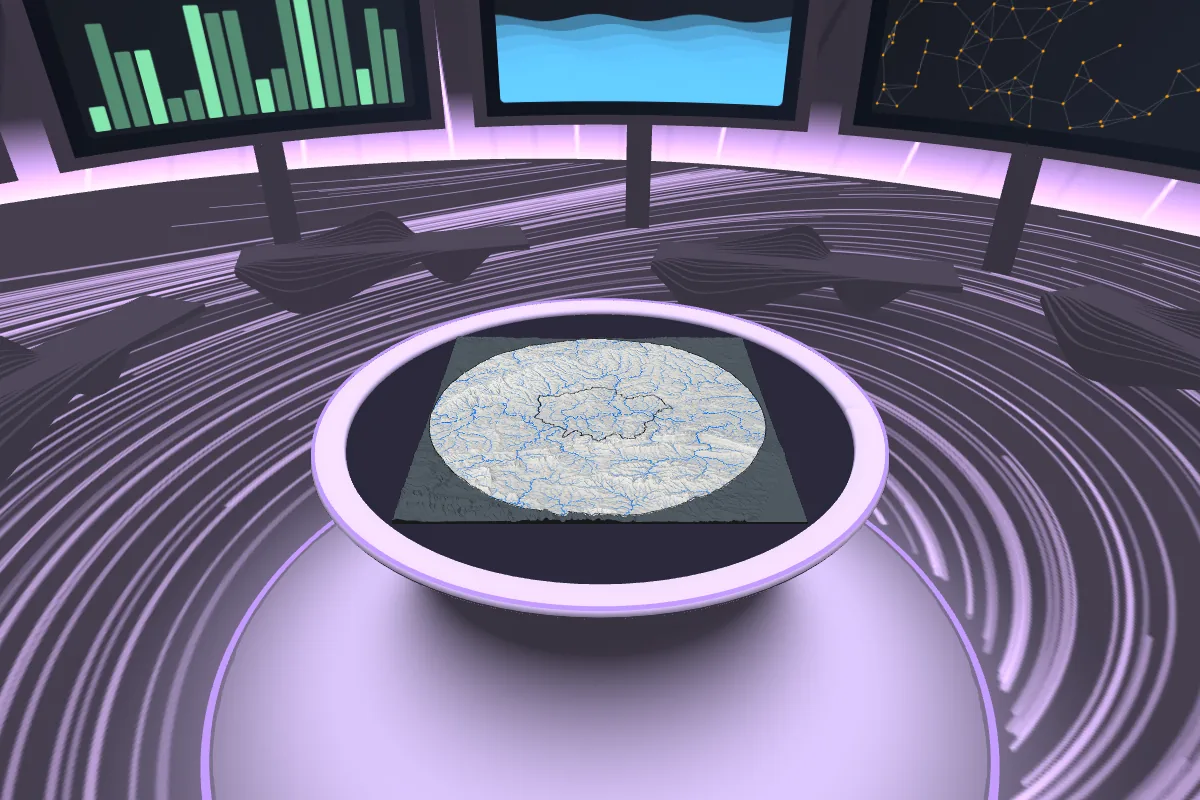
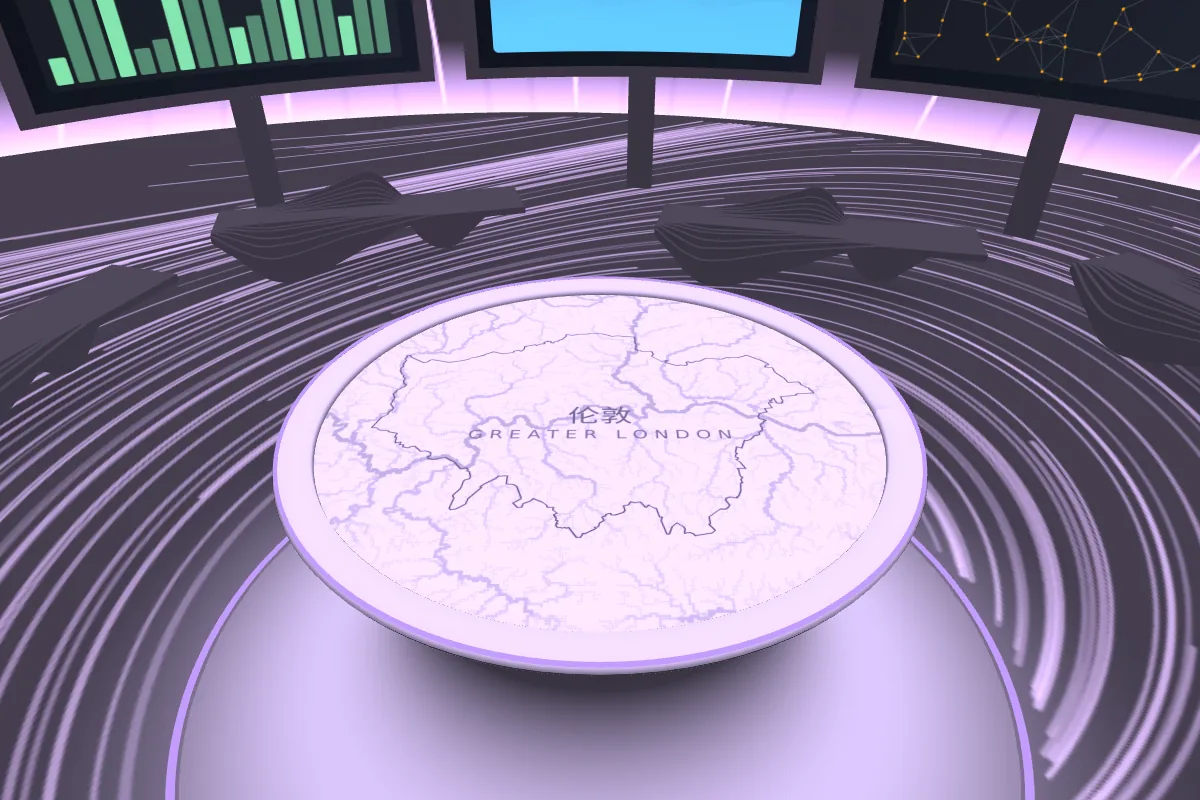
catalogue: the VR card says what it does; its cover shows all of London on the table
The description now lists only what the app does (preview, VR / MR, walk,
slide / turn / zoom the map, switch layers, open screens, walk at 1:1). The
cover's table shows the whole of Greater London in a light map style — the
boundary, the drainage network in grey and the 伦敦 · GREATER LONDON label,
the disc spanning about 72 km — drawn from the Hydro Lab scene data. hall.js
can now take such an image for the table's cap (opt.capImage, unused by the
app itself).

Claude-Session: https://claude.ai/code/session_01PLqW2Wv64EXShMtJ9cMZhs

diff --git a/incubator/vr/src/hall.js b/incubator/vr/src/hall.js
@@ -223,7 +223,11 @@ export function createHall(gl, opt = {}){
 
   // the table: body, a dark cap under the disc, a light ring on the rim and on the floor
   add(lathe(pts, 96, WHITE), {});
-  add(disc(mapR + 0.02, tableH - 0.002, 64, [0.16, 0.17, 0.19]), {});
+  // the cap under the map: dark, or opt.capImage (an image or canvas, north up, the disc's full width) — e.g. a still of the place
+  if (opt.capImage){ const cap = disc(mapR + 0.02, tableH - 0.002, 96, [1, 1, 1]), r = mapR + 0.02;
+    for (let o = 0; o < cap.v.length; o += F){ cap.v[o + 6] = 0.5 + cap.v[o] / (2 * r); cap.v[o + 7] = 0.5 - cap.v[o + 2] / (2 * r); }   // north (−z) at the top
+    add(cap, { map: tex(opt.capImage) }); }
+  else add(disc(mapR + 0.02, tableH - 0.002, 64, [0.16, 0.17, 0.19]), {});
   const ring = (r, y, n) => { const p = []; for (let k = 0; k < n; k++){ const a = k / n * Math.PI * 2; p.push([r * Math.cos(a), y, r * Math.sin(a)]); } return p; };
   glowLines.push(tube(ring(R2 - 0.004, tableH + 0.026, 160), 0.005, 6, true), tube(ring(foot + 0.02, 0.004, 160), 0.012, 4, true));
 

diff --git a/incubator/vr/src/xr_view.js b/incubator/vr/src/xr_view.js
@@ -15,7 +15,7 @@
 
 import { defaultEnv } from './app_state.js?v=0.20';
 import { writeCars } from './features.js?v=0.20';
-import { createHall } from './hall.js?v=0.29';
+import { createHall } from './hall.js?v=0.31';
 
 const T = {
   zh: { title: '三维 · VR / MR', enterAR: '进入 MR', enterVR: '进入 VR', noXR: '这台设备的浏览器不支持 WebXR。请在 Meta Quest 浏览器中打开本页。', close: '关闭', flood: '洪水风险', drain: '汇水网络', outline: '边界', buildings: '建筑', existing: '现有街道', exag: '高程放大', walk: '1:1 漫游',

diff --git a/incubator/vr/map.html b/incubator/vr/map.html
@@ -29,8 +29,8 @@
 <div id="err"></div>
 <script type="module">
 import { findMap } from './src/map_bridge.js?v=0.20';
-import { openFromMap } from './src/from_map.js?v=0.30';
-import { open } from './src/xr_view.js?v=0.30';
+import { openFromMap } from './src/from_map.js?v=0.31';
+import { open } from './src/xr_view.js?v=0.31';
 import { streamApi } from './src/stream.js?v=0.20';
 import { mapPainter } from './src/map_painter.js?v=0.20';
 import { appPanel } from './src/app_panel.js?v=0.24';

diff --git a/incubator/vr/index.html b/incubator/vr/index.html
@@ -12,7 +12,7 @@
 <div id="msg">载入场景… · Loading the scene…</div>
 <div id="drop">松开以载入场景文件 · Drop a scene file</div>
 <script type="module">
-import { open } from './src/xr_view.js?v=0.30';
+import { open } from './src/xr_view.js?v=0.31';
 import { apiFromScene } from './src/scene.js';
 import { streamApi } from './src/stream.js?v=0.20';
 import { envFromList } from './src/app_state.js?v=0.20';

diff --git a/incubator/vr/src/from_map.js b/incubator/vr/src/from_map.js
@@ -5,7 +5,7 @@
 //   3. the camera goes back exactly as it was, and the VR view opens over the map
 // Closing the view (or leaving the headset) returns to the map as it was. Call: openFromMap(map, 'zh' | 'en').
 
-import { open } from './xr_view.js?v=0.30';
+import { open } from './xr_view.js?v=0.31';
 import { buildingMesh, osmBuildingsIn } from './osm.js?v=0.20';
 
 const R = 6378137, MAX_TEX = 4096, MIN_ZOOM = 15;
